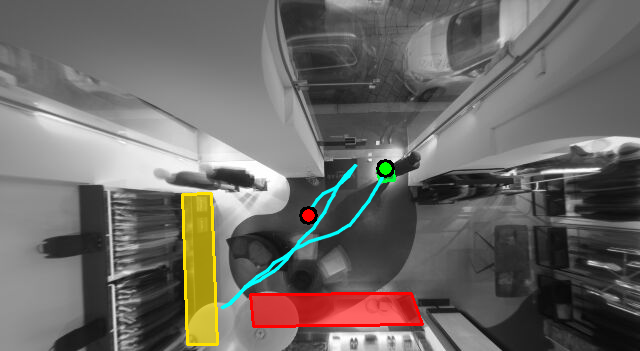
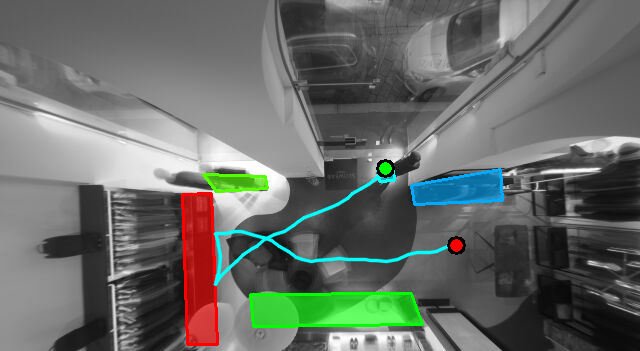
Step 7.2 reviewed and fixed

Changed region(s): [[0.2812, 0.4558, 0.8125, 0.9972]]

diff --git a/examples/simulated_store_session.py b/examples/simulated_store_session.py
@@ -13,6 +13,9 @@ The simulation creates a realistic browsing session where a viewer:
 - Looks around while moving (scanning shelves)
 - Stays within the shop floor boundaries
 
+For reproducible results, set a random seed:
+    main(seed=42)  # Will generate identical paths/directions each run
+
 Run with::
 
     uv run python examples/simulated_store_session.py
@@ -152,6 +155,7 @@ def generate_browsing_path(
     duration_sec: float,
     sample_rate: float,
     avg_speed: float,
+    seed: int | None = None,
 ) -> list[tuple[float, float]]:
     """Generate a realistic browsing path within shop floor bounds.
     
@@ -160,7 +164,18 @@ def generate_browsing_path(
     - Moves with some randomness but stays within bounds
     - Occasionally pauses (speed variations)
     - Turns gradually (not sharp angles)
+    
+    Args:
+        shop_floor: Polygon vertices defining walkable area
+        duration_sec: Total simulation duration in seconds
+        sample_rate: Samples per second (Hz)
+        avg_speed: Average movement speed in pixels/second
+        seed: Random seed for reproducibility (optional)
+    
+    Returns:
+        List of (x, y) position tuples, one per sample
     """
+    rng = np.random.default_rng(seed)
     num_samples = int(duration_sec * sample_rate)
     
     # Start position near entrance (midpoint between vertices 1 and 2)
@@ -182,14 +197,14 @@ def generate_browsing_path(
         dt = 1.0 / sample_rate
         
         # Speed variation (sometimes pause, sometimes faster)
-        speed_variation = np.random.uniform(0.5, 1.3)
-        if np.random.random() < 0.1:  # 10% chance to pause
+        speed_variation = rng.uniform(0.5, 1.3)
+        if rng.random() < 0.1:  # 10% chance to pause
             speed_variation = 0.1
         
         current_speed = avg_speed * speed_variation
         
         # Direction change: gradual turning + some randomness
-        turn_angle = np.random.uniform(-0.3, 0.3)  # Radians
+        turn_angle = rng.uniform(-0.3, 0.3)  # Radians
         cos_a, sin_a = np.cos(turn_angle), np.sin(turn_angle)
         current_direction = np.array([
             current_direction[0] * cos_a - current_direction[1] * sin_a,
@@ -206,7 +221,7 @@ def generate_browsing_path(
         attempt = 0
         while not point_in_polygon(new_pos, shop_floor) and attempt < max_attempts:
             # Reflect direction
-            turn_angle = np.random.uniform(np.pi/2, np.pi)
+            turn_angle = rng.uniform(np.pi/2, np.pi)
             cos_a, sin_a = np.cos(turn_angle), np.sin(turn_angle)
             current_direction = np.array([
                 current_direction[0] * cos_a - current_direction[1] * sin_a,
@@ -229,6 +244,7 @@ def generate_browsing_path(
 def generate_view_directions(
     positions: list[tuple[float, float]],
     aois: list[AOI],
+    seed: int | None = None,
 ) -> list[tuple[float, float]]:
     """Generate view directions that combine movement direction and scanning.
     
@@ -236,7 +252,16 @@ def generate_view_directions(
     - Generally looks in the direction of movement
     - Scans left/right occasionally (shelf browsing)
     - Sometimes looks at nearby AOIs
+    
+    Args:
+        positions: List of (x, y) viewer positions
+        aois: List of AOI objects to potentially look at
+        seed: Random seed for reproducibility (optional)
+    
+    Returns:
+        List of (dx, dy) normalized direction vectors
     """
+    rng = np.random.default_rng(seed)
     num_samples = len(positions)
     directions: list[tuple[float, float]] = []
     
@@ -258,11 +283,11 @@ def generate_view_directions(
             movement_dir = np.array([1.0, 0.0])
         
         # Add scanning behavior
-        scan_mode = np.random.random()
+        scan_mode = rng.random()
         
         if scan_mode < 0.6:
             # 60% - Look in movement direction with small variations
-            angle_offset = np.random.uniform(-0.2, 0.2)
+            angle_offset = rng.uniform(-0.2, 0.2)
             cos_a, sin_a = np.cos(angle_offset), np.sin(angle_offset)
             view_dir = np.array([
                 movement_dir[0] * cos_a - movement_dir[1] * sin_a,
@@ -271,7 +296,7 @@ def generate_view_directions(
         elif scan_mode < 0.85:
             # 25% - Scan left or right (perpendicular to movement)
             perpendicular = np.array([-movement_dir[1], movement_dir[0]])
-            if np.random.random() < 0.5:
+            if rng.random() < 0.5:
                 perpendicular = -perpendicular
             # Add some forward component
             view_dir = 0.5 * movement_dir + 0.5 * perpendicular
@@ -282,7 +307,7 @@ def generate_view_directions(
             min_dist = float('inf')
             for aoi in aois:
                 centroid = np.mean(aoi.contour, axis=0)
-                dist = np.linalg.norm(centroid - current_pos)
+                dist = float(np.linalg.norm(centroid - current_pos))
                 if dist < min_dist:
                     min_dist = dist
                     closest_aoi = aoi
@@ -335,12 +360,19 @@ def draw_viewer_path(
     return output
 
 
-def main() -> None:
-    """Generate synthetic tracking data and visualize results."""
+def main(seed: int | None = None) -> None:
+    """Generate synthetic tracking data and visualize results.
+    
+    Args:
+        seed: Random seed for reproducible simulations (optional).
+              When set, generates identical paths and view directions.
+    """
     
     print("="*60)
     print("SIMULATED STORE SESSION")
     print("="*60)
+    if seed is not None:
+        print(f"Using random seed: {seed}")
     print()
     
     print("Loading scene and AOIs...")
@@ -359,6 +391,7 @@ def main() -> None:
         DURATION_SECONDS,
         SAMPLE_RATE_HZ,
         AVG_SPEED_PX_PER_SEC,
+        seed=seed,
     )
     
     print(f"  Generated {len(positions)} position samples")
@@ -371,7 +404,7 @@ def main() -> None:
     print()
     
     print("Generating view directions...")
-    directions = generate_view_directions(positions, aois)
+    directions = generate_view_directions(positions, aois, seed=seed)
     print(f"  Generated {len(directions)} direction samples")
     print()
     

diff --git a/examples/attention_tracking_visualization.py b/examples/attention_tracking_visualization.py
@@ -23,8 +23,9 @@ from pathlib import Path
 try:
     import cv2
 except ImportError:
-    print("This example requires OpenCV. Install with: uv pip install opencv-python")
-    exit(1)
+    raise SystemExit(
+        "This example requires OpenCV. Install with: uv pip install opencv-python"
+    )
 
 from view_arc.tracking import (
     AOI,
